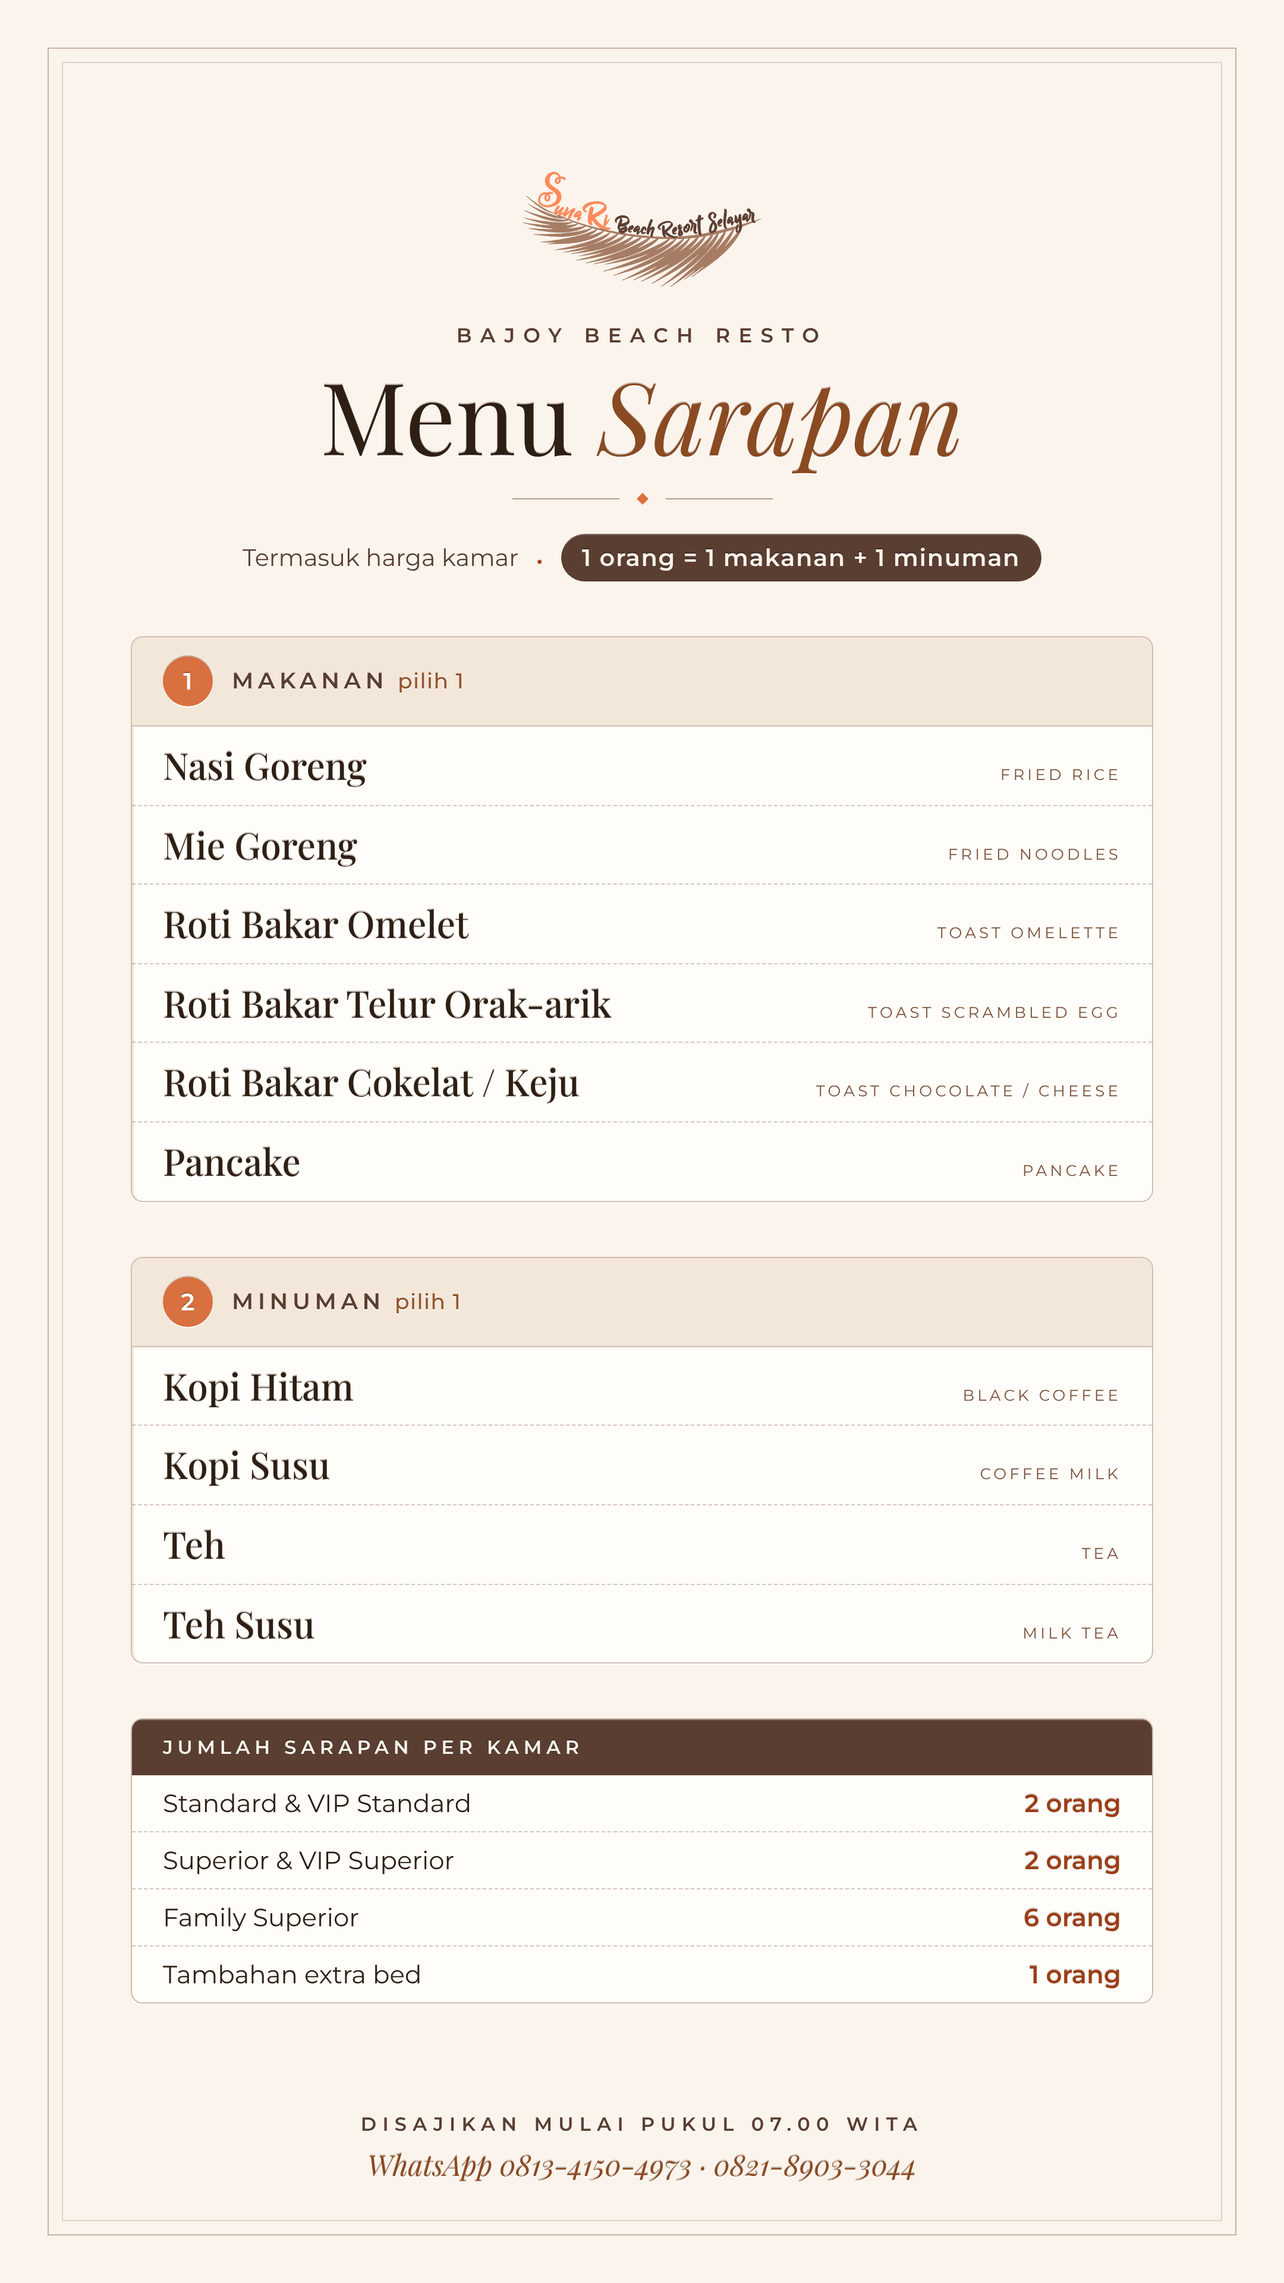
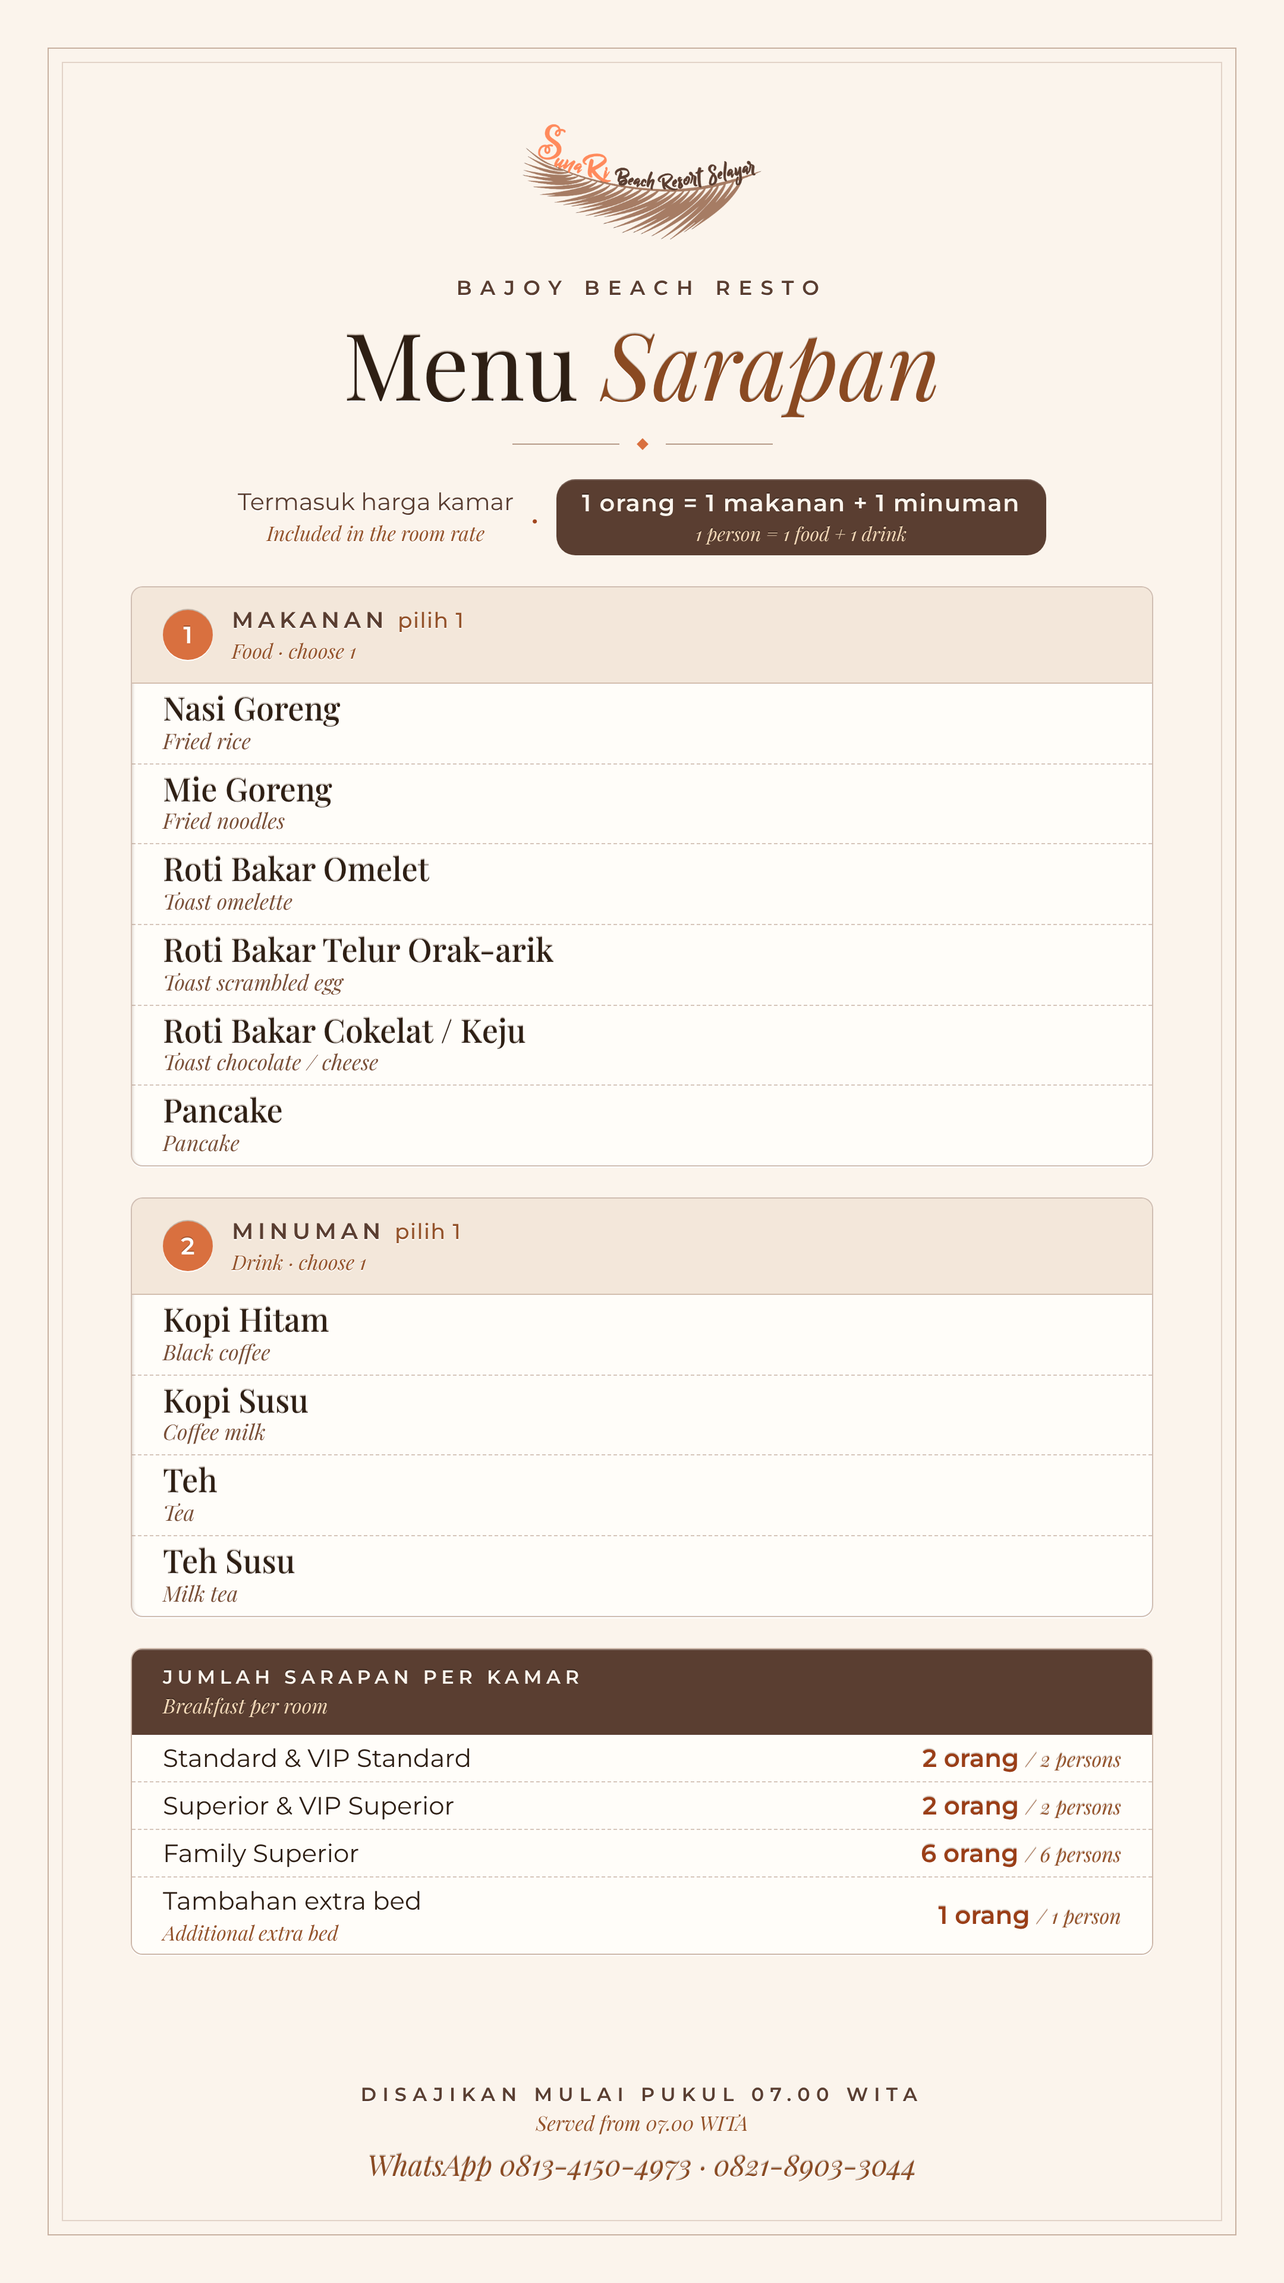
Menu sarapan: terjemahan bahasa Inggris di bawah setiap teks (PNG HD)
Claude-Session: https://claude.ai/code/session_01KeLc5eBGUnchV5ne3wvwHX

diff --git a/resto/menu-sarapan/menu_sarapan.html b/resto/menu-sarapan/menu_sarapan.html
@@ -2,32 +2,36 @@
 *{margin:0;padding:0;box-sizing:border-box}body{background:#bbb;font-family:Montserrat,sans-serif;-webkit-font-smoothing:antialiased}
 .pg{position:relative;width:1080px;height:1920px;margin:20px auto;background:#FBF4EC;color:#3A2819;overflow:hidden}
 .f1{position:absolute;inset:40px;border:1.5px solid rgba(138,95,72,.45)}.f2{position:absolute;inset:52px;border:1px solid rgba(138,95,72,.22)}
-.in{position:absolute;left:110px;right:110px;top:140px;text-align:center}
+.in{position:absolute;left:110px;right:110px;top:100px;text-align:center}
 .lg{width:210px}
 .kick{font-weight:600;font-size:17px;letter-spacing:.42em;text-transform:uppercase;color:#7A5038;margin-top:22px}
-h1{font-family:'Playfair Display',serif;font-weight:400;font-size:84px;line-height:1;margin-top:14px}
+h1{font-family:'Playfair Display',serif;font-weight:400;font-size:78px;line-height:1;margin-top:14px}
 h1 i{color:#94532B}
 .rule{display:flex;align-items:center;justify-content:center;gap:16px;margin:26px 0 0}
 .rule span{width:90px;height:1px;background:rgba(138,95,72,.6)}.rule b{width:7px;height:7px;transform:rotate(45deg);background:#D9703F}
 /* aturan singkat */
 .how{display:flex;justify-content:center;align-items:center;gap:14px;margin-top:26px;font-size:20px;color:#5A3E31}
-.how .pill{padding:8px 18px;border-radius:30px;background:#5A3E31;color:#FBF4EC;font-weight:600;letter-spacing:.04em}
+.how .pill{padding:8px 22px;border-radius:16px;text-align:center;background:#5A3E31;color:#FBF4EC;font-weight:600;letter-spacing:.04em}
 .how .eq{font-family:'Playfair Display',serif;font-size:28px;color:#A2461F}
 /* kartu langkah */
-.card{margin-top:46px;border:1.5px solid rgba(138,95,72,.4);border-radius:10px;background:#FFFDF9;text-align:left;overflow:hidden}
+.card{margin-top:26px;border:1.5px solid rgba(138,95,72,.4);border-radius:10px;background:#FFFDF9;text-align:left;overflow:hidden}
 .card .hd{display:flex;align-items:center;gap:16px;padding:16px 26px;background:#F3E7DA;border-bottom:1.5px solid rgba(138,95,72,.3)}
 .card .no{width:42px;height:42px;border-radius:50%;background:#D9703F;color:#fff;font-weight:700;font-size:20px;display:flex;align-items:center;justify-content:center;flex:0 0 42px}
 .card .tt{font-weight:700;font-size:19px;letter-spacing:.2em;text-transform:uppercase;color:#5A3E31}
 .card .tt span{font-weight:500;letter-spacing:.04em;text-transform:none;color:#94532B;font-size:18px;margin-left:8px}
-.row{display:flex;justify-content:space-between;align-items:baseline;gap:16px;padding:15px 26px;border-bottom:1px dashed rgba(138,95,72,.35)}
+.row{display:block;padding:6px 26px 7px;border-bottom:1px dashed rgba(138,95,72,.35)}
 .row:last-child{border-bottom:0}
-.row .n{font-family:'Playfair Display',serif;font-size:31px;line-height:1.15}
-.row .e{font-size:13px;letter-spacing:.2em;text-transform:uppercase;color:#9A7B66;white-space:nowrap}
+.row .n{font-family:'Playfair Display',serif;font-size:27px;line-height:1.1}
+.row .e{font-family:'Playfair Display',serif;font-style:italic;font-size:18px;color:#9A7B66;margin-top:0}
+.en{font-family:'Playfair Display',serif;font-style:italic;font-weight:400;letter-spacing:0;text-transform:none;font-size:17px;color:#94532B;margin-top:3px}
 /* porsi */
-.porsi{margin-top:46px;border:1.5px solid rgba(138,95,72,.4);border-radius:10px;overflow:hidden;text-align:left}
+.porsi{margin-top:26px;border:1.5px solid rgba(138,95,72,.4);border-radius:10px;overflow:hidden;text-align:left}
 .porsi .hd{padding:14px 26px;background:#5A3E31;color:#FBF4EC;font-weight:700;font-size:16px;letter-spacing:.24em;text-transform:uppercase}
-.porsi .r{display:flex;justify-content:space-between;padding:11px 26px;font-size:21px;border-bottom:1px dashed rgba(138,95,72,.35);background:#FFFDF9}
-.porsi .r:last-child{border-bottom:0}.porsi .r b{color:#A2461F}
+.porsi .r{display:flex;justify-content:space-between;align-items:center;padding:7px 26px;font-size:21px;border-bottom:1px dashed rgba(138,95,72,.35);background:#FFFDF9}
+.porsi .r:last-child{border-bottom:0}.porsi .r b{color:#A2461F;text-align:right}
+.porsi .hd .en{color:#F3D9B8}
+.en2{font-family:'Playfair Display',serif;font-weight:400;font-size:17px;color:#94532B}
+.how .pill .en{color:#F3D9B8;font-size:16px}
 .ft{position:absolute;left:110px;right:110px;bottom:84px;text-align:center}
 .ft .t{font-weight:600;font-size:16px;letter-spacing:.32em;text-transform:uppercase;color:#7A5038}
 .ft .s{font-family:'Playfair Display',serif;font-style:italic;font-size:24px;color:#94532B;margin-top:8px}
@@ -45,8 +49,8 @@ h1 i,.ft .s{color:#8A4A22}
 </style></head><body><div class="pg" id="menu-sarapan"><div class="f1"></div><div class="f2"></div>
 <div class="in"><img class="lg" src="../../assets/logo-sunari-color.png"><div class="kick">Bajoy Beach Resto</div>
 <h1>Menu <i>Sarapan</i></h1><div class="rule"><span></span><b></b><span></span></div>
-<div class="how"><span>Termasuk harga kamar</span><span class="eq">·</span><span class="pill">1 orang = 1 makanan + 1 minuman</span></div>
-<div class="card"><div class="hd"><div class="no">1</div><div class="tt">Makanan<span>pilih 1</span></div></div><div class="row"><div class="n">Nasi Goreng</div><div class="e">Fried rice</div></div><div class="row"><div class="n">Mie Goreng</div><div class="e">Fried noodles</div></div><div class="row"><div class="n">Roti Bakar Omelet</div><div class="e">Toast omelette</div></div><div class="row"><div class="n">Roti Bakar Telur Orak-arik</div><div class="e">Toast scrambled egg</div></div><div class="row"><div class="n">Roti Bakar Cokelat / Keju</div><div class="e">Toast chocolate / cheese</div></div><div class="row"><div class="n">Pancake</div><div class="e">Pancake</div></div></div>
-<div class="card"><div class="hd"><div class="no">2</div><div class="tt">Minuman<span>pilih 1</span></div></div><div class="row"><div class="n">Kopi Hitam</div><div class="e">Black coffee</div></div><div class="row"><div class="n">Kopi Susu</div><div class="e">Coffee milk</div></div><div class="row"><div class="n">Teh</div><div class="e">Tea</div></div><div class="row"><div class="n">Teh Susu</div><div class="e">Milk tea</div></div></div>
-<div class="porsi"><div class="hd">Jumlah sarapan per kamar</div><div class="r"><span>Standard &amp; VIP Standard</span><b>2 orang</b></div><div class="r"><span>Superior &amp; VIP Superior</span><b>2 orang</b></div><div class="r"><span>Family Superior</span><b>6 orang</b></div><div class="r"><span>Tambahan extra bed</span><b>1 orang</b></div></div></div>
-<div class="ft"><div class="t">Disajikan mulai pukul 07.00 WITA</div><div class="s">WhatsApp 0813-4150-4973 · 0821-8903-3044</div></div></div></body></html>
+<div class="how"><span>Termasuk harga kamar<div class="en">Included in the room rate</div></span><span class="eq">·</span><span class="pill">1 orang = 1 makanan + 1 minuman<div class="en">1 person = 1 food + 1 drink</div></span></div>
+<div class="card"><div class="hd"><div class="no">1</div><div class="tt">Makanan<span>pilih 1</span><div class="en">Food · choose 1</div></div></div><div class="row"><div class="n">Nasi Goreng</div><div class="e">Fried rice</div></div><div class="row"><div class="n">Mie Goreng</div><div class="e">Fried noodles</div></div><div class="row"><div class="n">Roti Bakar Omelet</div><div class="e">Toast omelette</div></div><div class="row"><div class="n">Roti Bakar Telur Orak-arik</div><div class="e">Toast scrambled egg</div></div><div class="row"><div class="n">Roti Bakar Cokelat / Keju</div><div class="e">Toast chocolate / cheese</div></div><div class="row"><div class="n">Pancake</div><div class="e">Pancake</div></div></div>
+<div class="card"><div class="hd"><div class="no">2</div><div class="tt">Minuman<span>pilih 1</span><div class="en">Drink · choose 1</div></div></div><div class="row"><div class="n">Kopi Hitam</div><div class="e">Black coffee</div></div><div class="row"><div class="n">Kopi Susu</div><div class="e">Coffee milk</div></div><div class="row"><div class="n">Teh</div><div class="e">Tea</div></div><div class="row"><div class="n">Teh Susu</div><div class="e">Milk tea</div></div></div>
+<div class="porsi"><div class="hd">Jumlah sarapan per kamar<div class="en">Breakfast per room</div></div><div class="r"><span>Standard &amp; VIP Standard</span><b>2 orang <i class="en2">/ 2 persons</i></b></div><div class="r"><span>Superior &amp; VIP Superior</span><b>2 orang <i class="en2">/ 2 persons</i></b></div><div class="r"><span>Family Superior</span><b>6 orang <i class="en2">/ 6 persons</i></b></div><div class="r"><span>Tambahan extra bed<div class="en">Additional extra bed</div></span><b>1 orang <i class="en2">/ 1 person</i></b></div></div></div>
+<div class="ft"><div class="t">Disajikan mulai pukul 07.00 WITA</div><div class="en">Served from 07.00 WITA</div><div class="s">WhatsApp 0813-4150-4973 · 0821-8903-3044</div></div></div></body></html>

diff --git a/resto/menu-sarapan/build.py b/resto/menu-sarapan/build.py
@@ -8,37 +8,41 @@ FONTS = '<link href="https://fonts.googleapis.com/css2?family=Playfair+Display:i
 MAKANAN = [("Nasi Goreng", "Fried rice"), ("Mie Goreng", "Fried noodles"), ("Roti Bakar Omelet", "Toast omelette"),
            ("Roti Bakar Telur Orak-arik", "Toast scrambled egg"), ("Roti Bakar Cokelat / Keju", "Toast chocolate / cheese"), ("Pancake", "Pancake")]
 MINUMAN = [("Kopi Hitam", "Black coffee"), ("Kopi Susu", "Coffee milk"), ("Teh", "Tea"), ("Teh Susu", "Milk tea")]
-PORSI = [("Standard &amp; VIP Standard", "2 orang"), ("Superior &amp; VIP Superior", "2 orang"), ("Family Superior", "6 orang"), ("Tambahan extra bed", "1 orang")]
+PORSI = [("Standard &amp; VIP Standard", "", "2 orang", "2 persons"), ("Superior &amp; VIP Superior", "", "2 orang", "2 persons"), ("Family Superior", "", "6 orang", "6 persons"), ("Tambahan extra bed", "Additional extra bed", "1 orang", "1 person")]
 CSS = """
 *{margin:0;padding:0;box-sizing:border-box}body{background:#bbb;font-family:Montserrat,sans-serif;-webkit-font-smoothing:antialiased}
 .pg{position:relative;width:1080px;height:1920px;margin:20px auto;background:#FBF4EC;color:#3A2819;overflow:hidden}
 .f1{position:absolute;inset:40px;border:1.5px solid rgba(138,95,72,.45)}.f2{position:absolute;inset:52px;border:1px solid rgba(138,95,72,.22)}
-.in{position:absolute;left:110px;right:110px;top:140px;text-align:center}
+.in{position:absolute;left:110px;right:110px;top:100px;text-align:center}
 .lg{width:210px}
 .kick{font-weight:600;font-size:17px;letter-spacing:.42em;text-transform:uppercase;color:#7A5038;margin-top:22px}
-h1{font-family:'Playfair Display',serif;font-weight:400;font-size:84px;line-height:1;margin-top:14px}
+h1{font-family:'Playfair Display',serif;font-weight:400;font-size:78px;line-height:1;margin-top:14px}
 h1 i{color:#94532B}
 .rule{display:flex;align-items:center;justify-content:center;gap:16px;margin:26px 0 0}
 .rule span{width:90px;height:1px;background:rgba(138,95,72,.6)}.rule b{width:7px;height:7px;transform:rotate(45deg);background:#D9703F}
 /* aturan singkat */
 .how{display:flex;justify-content:center;align-items:center;gap:14px;margin-top:26px;font-size:20px;color:#5A3E31}
-.how .pill{padding:8px 18px;border-radius:30px;background:#5A3E31;color:#FBF4EC;font-weight:600;letter-spacing:.04em}
+.how .pill{padding:8px 22px;border-radius:16px;text-align:center;background:#5A3E31;color:#FBF4EC;font-weight:600;letter-spacing:.04em}
 .how .eq{font-family:'Playfair Display',serif;font-size:28px;color:#A2461F}
 /* kartu langkah */
-.card{margin-top:46px;border:1.5px solid rgba(138,95,72,.4);border-radius:10px;background:#FFFDF9;text-align:left;overflow:hidden}
+.card{margin-top:26px;border:1.5px solid rgba(138,95,72,.4);border-radius:10px;background:#FFFDF9;text-align:left;overflow:hidden}
 .card .hd{display:flex;align-items:center;gap:16px;padding:16px 26px;background:#F3E7DA;border-bottom:1.5px solid rgba(138,95,72,.3)}
 .card .no{width:42px;height:42px;border-radius:50%;background:#D9703F;color:#fff;font-weight:700;font-size:20px;display:flex;align-items:center;justify-content:center;flex:0 0 42px}
 .card .tt{font-weight:700;font-size:19px;letter-spacing:.2em;text-transform:uppercase;color:#5A3E31}
 .card .tt span{font-weight:500;letter-spacing:.04em;text-transform:none;color:#94532B;font-size:18px;margin-left:8px}
-.row{display:flex;justify-content:space-between;align-items:baseline;gap:16px;padding:15px 26px;border-bottom:1px dashed rgba(138,95,72,.35)}
+.row{display:block;padding:6px 26px 7px;border-bottom:1px dashed rgba(138,95,72,.35)}
 .row:last-child{border-bottom:0}
-.row .n{font-family:'Playfair Display',serif;font-size:31px;line-height:1.15}
-.row .e{font-size:13px;letter-spacing:.2em;text-transform:uppercase;color:#9A7B66;white-space:nowrap}
+.row .n{font-family:'Playfair Display',serif;font-size:27px;line-height:1.1}
+.row .e{font-family:'Playfair Display',serif;font-style:italic;font-size:18px;color:#9A7B66;margin-top:0}
+.en{font-family:'Playfair Display',serif;font-style:italic;font-weight:400;letter-spacing:0;text-transform:none;font-size:17px;color:#94532B;margin-top:3px}
 /* porsi */
-.porsi{margin-top:46px;border:1.5px solid rgba(138,95,72,.4);border-radius:10px;overflow:hidden;text-align:left}
+.porsi{margin-top:26px;border:1.5px solid rgba(138,95,72,.4);border-radius:10px;overflow:hidden;text-align:left}
 .porsi .hd{padding:14px 26px;background:#5A3E31;color:#FBF4EC;font-weight:700;font-size:16px;letter-spacing:.24em;text-transform:uppercase}
-.porsi .r{display:flex;justify-content:space-between;padding:11px 26px;font-size:21px;border-bottom:1px dashed rgba(138,95,72,.35);background:#FFFDF9}
-.porsi .r:last-child{border-bottom:0}.porsi .r b{color:#A2461F}
+.porsi .r{display:flex;justify-content:space-between;align-items:center;padding:7px 26px;font-size:21px;border-bottom:1px dashed rgba(138,95,72,.35);background:#FFFDF9}
+.porsi .r:last-child{border-bottom:0}.porsi .r b{color:#A2461F;text-align:right}
+.porsi .hd .en{color:#F3D9B8}
+.en2{font-family:'Playfair Display',serif;font-weight:400;font-size:17px;color:#94532B}
+.how .pill .en{color:#F3D9B8;font-size:16px}
 .ft{position:absolute;left:110px;right:110px;bottom:84px;text-align:center}
 .ft .t{font-weight:600;font-size:16px;letter-spacing:.32em;text-transform:uppercase;color:#7A5038}
 .ft .s{font-family:'Playfair Display',serif;font-style:italic;font-size:24px;color:#94532B;margin-top:8px}
@@ -55,13 +59,14 @@ h1 i,.ft .s{color:#8A4A22}
 .card .no{box-shadow:0 1px 0 #fff,0 -1px 0 rgba(90,62,49,.3);text-shadow:0 -1px 0 rgba(0,0,0,.25)}
 """
 rows = lambda L: "".join(f'<div class="row"><div class="n">{n}</div><div class="e">{e}</div></div>' for n, e in L)
+en = lambda t: f'<div class="en">{t}</div>'
 HTML = f'''<div class="pg" id="menu-sarapan"><div class="f1"></div><div class="f2"></div>
 <div class="in"><img class="lg" src="{LOGO}"><div class="kick">Bajoy Beach Resto</div>
 <h1>Menu <i>Sarapan</i></h1><div class="rule"><span></span><b></b><span></span></div>
-<div class="how"><span>Termasuk harga kamar</span><span class="eq">·</span><span class="pill">1 orang = 1 makanan + 1 minuman</span></div>
-<div class="card"><div class="hd"><div class="no">1</div><div class="tt">Makanan<span>pilih 1</span></div></div>{rows(MAKANAN)}</div>
-<div class="card"><div class="hd"><div class="no">2</div><div class="tt">Minuman<span>pilih 1</span></div></div>{rows(MINUMAN)}</div>
-<div class="porsi"><div class="hd">Jumlah sarapan per kamar</div>{"".join(f'<div class="r"><span>{a}</span><b>{b}</b></div>' for a, b in PORSI)}</div></div>
-<div class="ft"><div class="t">Disajikan mulai pukul 07.00 WITA</div><div class="s">WhatsApp 0813-4150-4973 · 0821-8903-3044</div></div></div>'''
+<div class="how"><span>Termasuk harga kamar{en("Included in the room rate")}</span><span class="eq">·</span><span class="pill">1 orang = 1 makanan + 1 minuman{en("1 person = 1 food + 1 drink")}</span></div>
+<div class="card"><div class="hd"><div class="no">1</div><div class="tt">Makanan<span>pilih 1</span>{en("Food · choose 1")}</div></div>{rows(MAKANAN)}</div>
+<div class="card"><div class="hd"><div class="no">2</div><div class="tt">Minuman<span>pilih 1</span>{en("Drink · choose 1")}</div></div>{rows(MINUMAN)}</div>
+<div class="porsi"><div class="hd">Jumlah sarapan per kamar{en("Breakfast per room")}</div>{"".join(f'<div class="r"><span>{a}{en(ae) if ae else ""}</span><b>{b} <i class="en2">/ {be}</i></b></div>' for a, ae, b, be in PORSI)}</div></div>
+<div class="ft"><div class="t">Disajikan mulai pukul 07.00 WITA</div>{en("Served from 07.00 WITA")}<div class="s">WhatsApp 0813-4150-4973 · 0821-8903-3044</div></div></div>'''
 (H / "menu_sarapan.html").write_text(f'<!doctype html><html lang="id"><head><meta charset="utf-8">{FONTS}<style>{CSS}</style></head><body>{HTML}</body></html>')
 print("ok")
